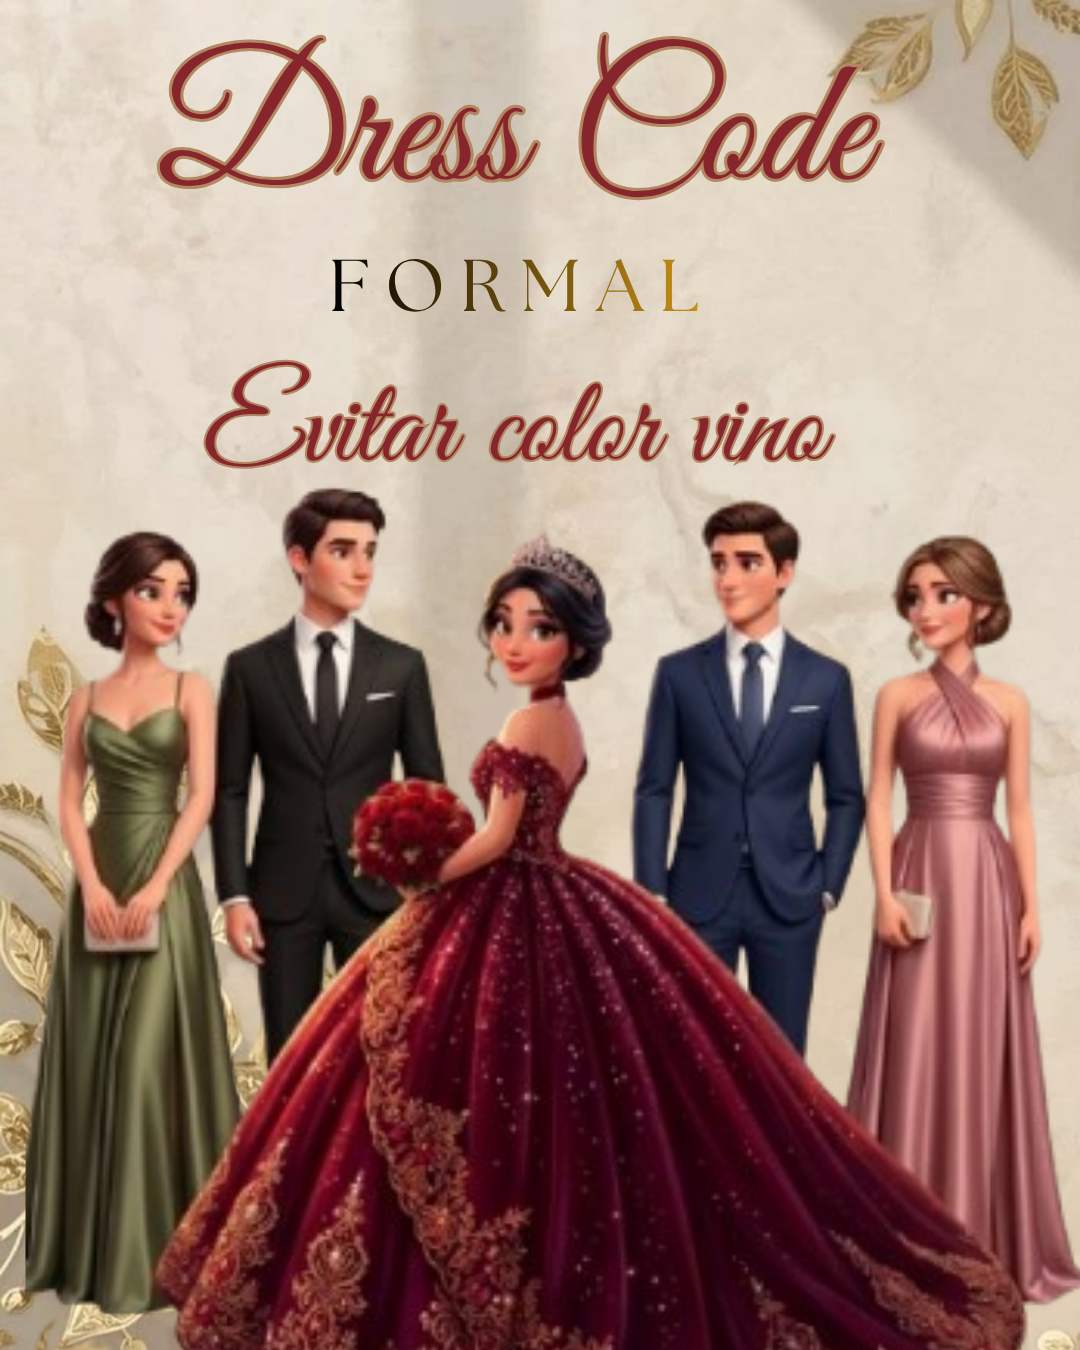
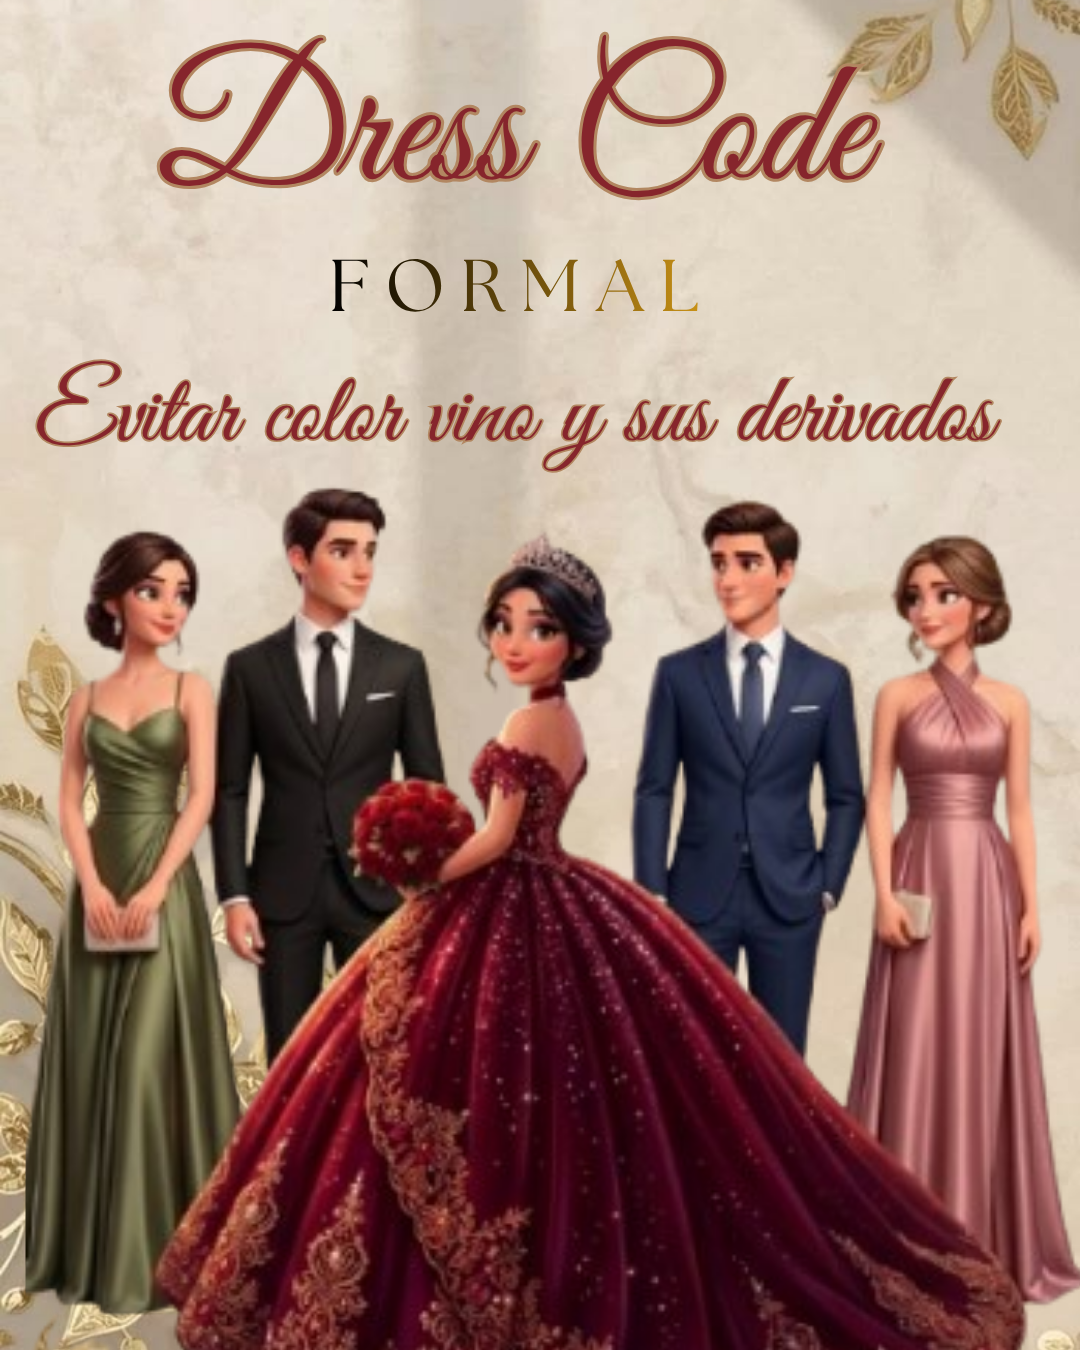
Se configuro , fomulario

Changed region(s): [[0.0306, 0.2489, 0.9167, 0.3733]]

diff --git a/index.html b/index.html
@@ -43,7 +43,10 @@ HERO
 
         
 </section>
-
+<br>
+<section class="seccion-imagen">
+    <img src="salmo.png" alt="Descripción de la imagen">
+</section>
 <!--======================================================
 CUENTA REGRESIVA
 Colocar debajo del HERO
@@ -257,11 +260,11 @@ LUGAR DEL EVENTO
         </span>
 
         <h2>
-            Ceremonia & Recepción
+             Recepción
         </h2>
 
         <p>
-            Dos lugares especiales donde compartiremos este día inolvidable.
+            Un lugar especial donde compartiremos este día inolvidable.
         </p>
 
     </div>
@@ -284,7 +287,7 @@ LUGAR DEL EVENTO
 
             <div class="imagen-lugar">
 
-              <img src="salon.jpeg" alt="Foto">
+              <img src="salon.webp" alt="Foto">
 
             </div>
 
@@ -296,26 +299,26 @@ LUGAR DEL EVENTO
 
 
                 <h3>
-                    Salón Los Jardines
+               Salon De Fiestas Orion
                 </h3>
 
 
                 <p>
                     Recepción
                     <br>
-                    7:00 PM
+                    6:30 PM
                 </p>
 
 
                 <p>
-                    Avenida de las Flores #456
+                    Vía Láctea 2, Jardines de Satelite, 
                     <br>
-                    Ciudad
+                    53129 Naucalpan de Juárez, Méx.
                 </p>
 
 
                 <a 
-                href="https://maps.google.com/?q=Salon+Los+Jardines"
+                href="https://maps.app.goo.gl/GPUYEwXtArBQDskw6"
                 target="_blank"
                 class="btn">
 
@@ -398,7 +401,7 @@ PADRES Y PADRINOS
              
 
                 <h4>
-                    Cesar de La Cruz Dionicio
+                    Cesar de La Cruz <br>Dionicio
                 </h4>
 
                 <p>
@@ -451,9 +454,9 @@ MESA DE REGALOS
 
         <p>
 
-           Tu presencia es el mejor regalo que Daniela<br> podría recibir.
-           <br> Si deseas obsequiarle algo más,<br> agradeceremos mucho tu detalle <br>en un sobre.
-           <br> ¡Gracias por ser parte de este momento tan especial
+           Tu presencia es el mejor regalo que <br> Daniela podría recibir.
+           <br> Si deseas obsequiarle algo más,<br> agradeceremos mucho  <br> tu detalle en un sobre.
+           <br> ¡Gracias por ser parte de este <br> momento tan especial
 
         </p>
 
@@ -503,7 +506,7 @@ CODIGO DE VESTIMENTA
           
 
          <span class="subtitulo">
-            Reservar vino para la Quinceañera
+            Reservar vino y sus derivados para la Quinceañera
         </span>
         </p>
        <br>
@@ -518,6 +521,10 @@ CODIGO DE VESTIMENTA
                             <small>Vino</small>
                         </div>
 
+                             <div class="color-item">
+            <span class="color rojo"></span>
+            <small>Rojo</small>
+        </div> 
                     </div>
       
 
@@ -572,8 +579,8 @@ CALENDARIO Y CONFIRMACIÓN
 
 
             <p>
-                Agrega el evento a tu calendario<br>
-                para no perder este momento.
+                Agrega el evento a tu <br> calendario<br>
+                para no perder <br> este momento.
             </p>
 
 
@@ -605,7 +612,7 @@ CALENDARIO Y CONFIRMACIÓN
 
 
             <p>
-                Envía tu confirmación directamente.
+                Envía tu confirmación<br> directamente.
             </p>
 
 
@@ -744,7 +751,7 @@ QR PARA FOTOS
 
 
         <a 
-        href="https://photos.app.goo.gl/JefRHDkd4n7bUgjPA"
+        href="https://photos.app.goo.gl/wkuKm3fW6GwFWGRK7"
         target="_blank"
         class="btn">
 

diff --git a/script.js b/script.js
@@ -47,7 +47,7 @@ FORMULARIO CONFIRMACION
 
 
 const URL_SCRIPT = 
-"https://script.google.com/macros/s/AKfycbz9Z9sP5RtmdDVkTqt0IYfV6rb4Uh8nK6A_ZPAS9P8prxwUJnPxPdw3LLvhzU1g1a9zGA/exec";
+"https://script.google.com/macros/s/AKfycbzqIBV8qccC8ITV4Jsa21IYCmkSlMbuxSetgK4macTm9iIeBF3jmVZMWJa_3IYVuvUi/exec";
 
 
 const formulario =

diff --git a/style.css b/style.css
@@ -2801,6 +2801,11 @@ CODIGO DE VESTIMENTA
 
     color:var(--gris);
 
+
+}
+
+.rojo{
+    background:#B22222;
 }
 
 .vino{
